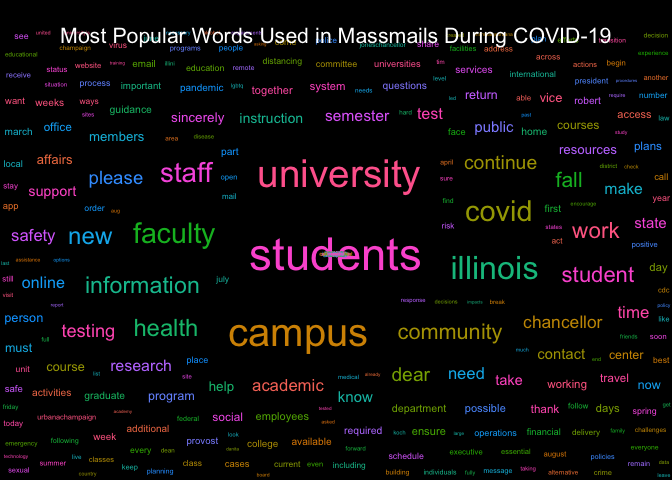
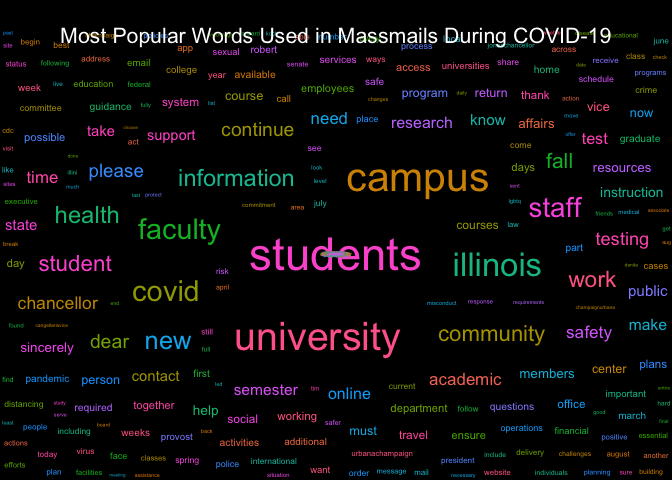
Re-build README.Rmd and Graphs

Changed region(s): [[0.0, 0.0625, 1.0, 1.0]]

diff --git a/README.md b/README.md
@@ -17,7 +17,7 @@ The archive may be viewed here:
 
 <https://massmail.illinois.edu/massmailArchive>
 
-Data has **1201** observations and **7** variables:
+Data has **1204** observations and **7** variables:
 
   - `datetime`: Date and time when the email was sent in the form of
     `YYYY-MM-DD HMS` with either CDT or CST.
@@ -205,15 +205,15 @@ head(most_popular_words, 10) %>%
 
 | word        | freq |
 | :---------- | ---: |
-| students    |  593 |
-| university  |  515 |
-| campus      |  482 |
-| illinois    |  326 |
-| faculty     |  295 |
-| covid       |  267 |
-| information |  254 |
-| community   |  240 |
-| staff       |  233 |
+| students    |  596 |
+| university  |  529 |
+| campus      |  499 |
+| illinois    |  336 |
+| faculty     |  298 |
+| covid       |  268 |
+| information |  262 |
+| community   |  249 |
+| staff       |  235 |
 | health      |  215 |
 
 #### Wordcloud
